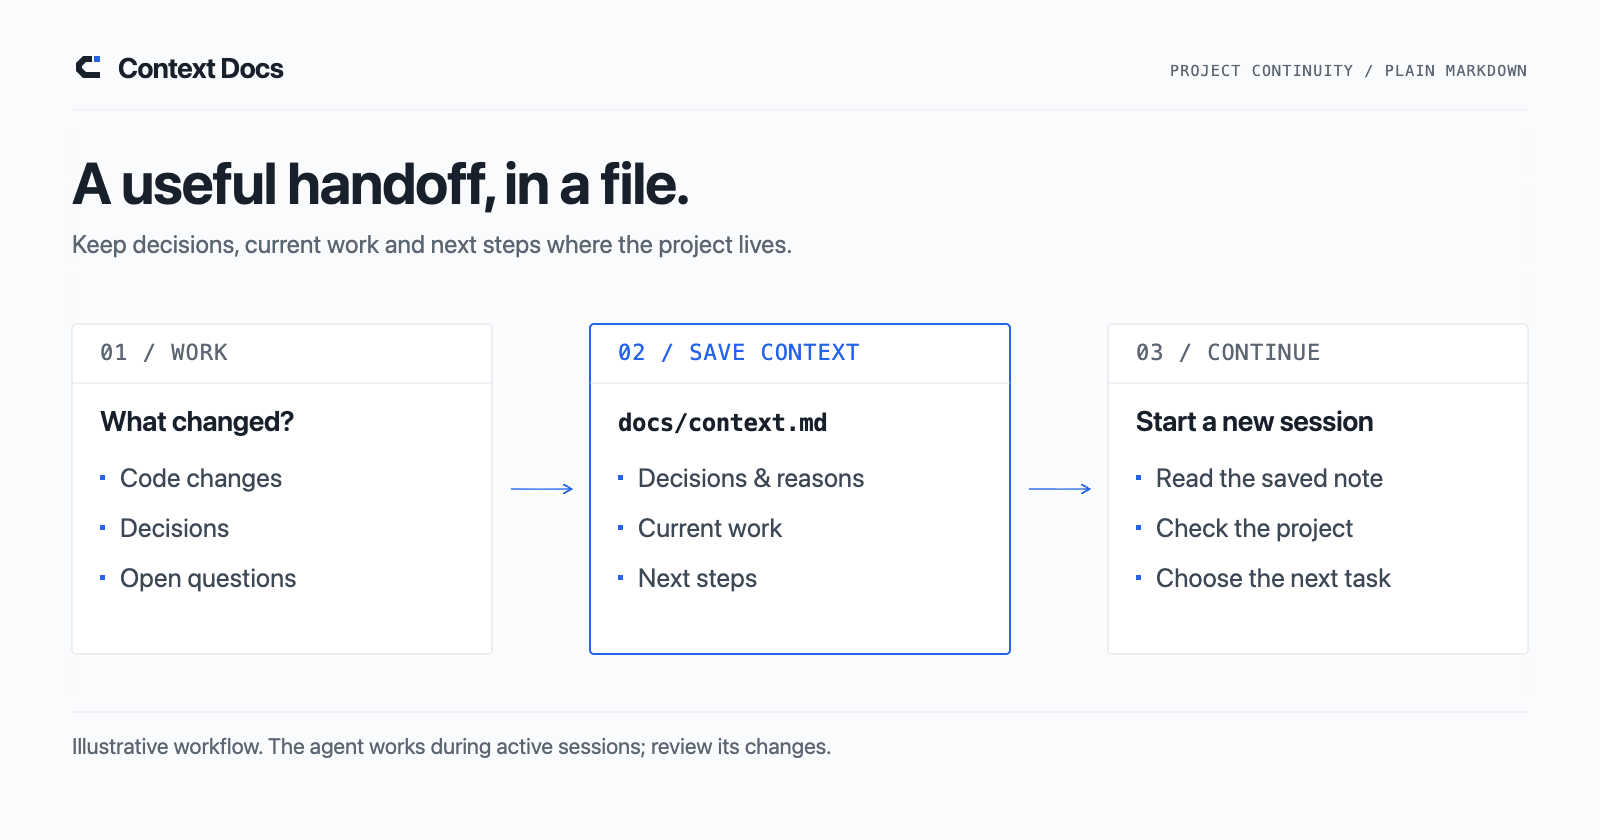
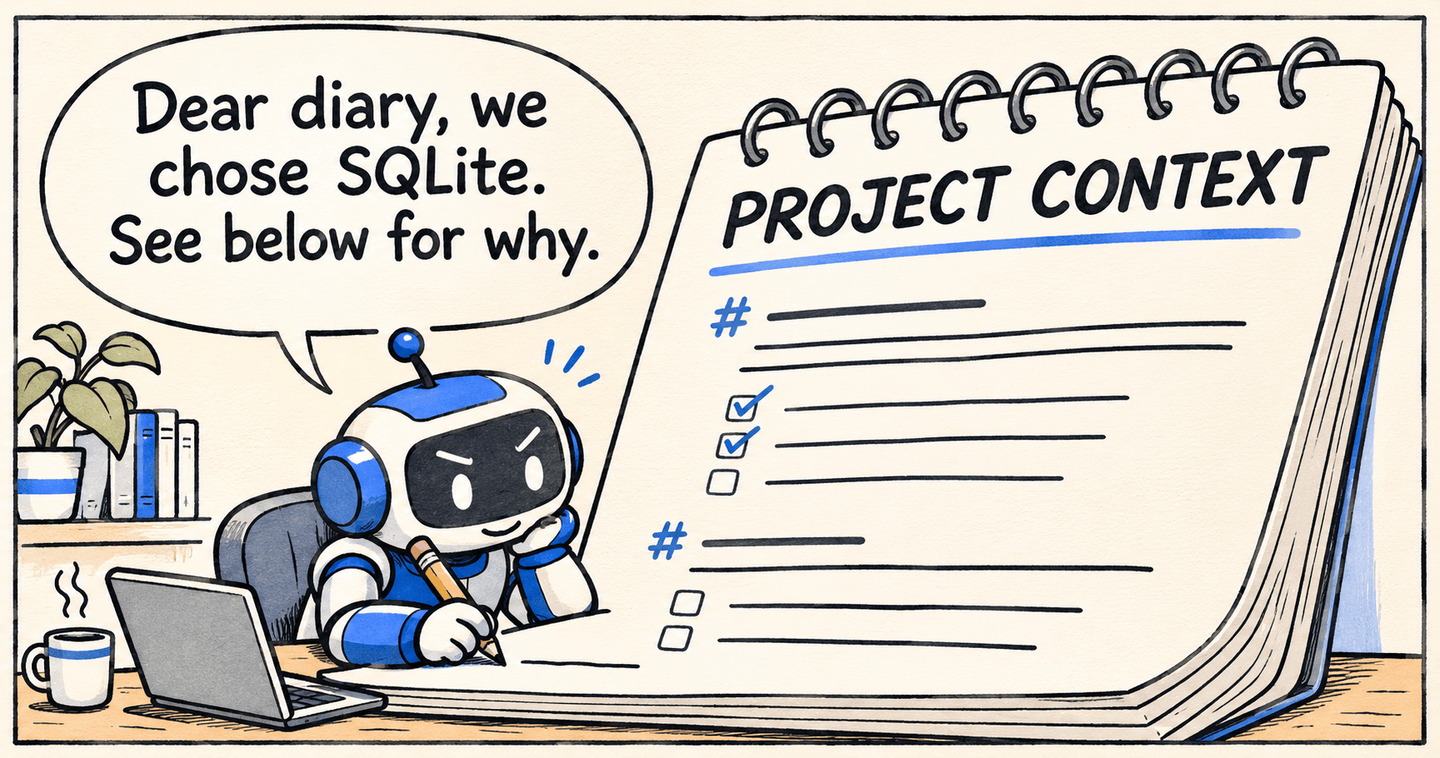
Put project context front and center with a notebook comic

diff --git a/site/index.html b/site/index.html
@@ -4,15 +4,15 @@
 <!-- UI icons: Tabler Icons 3.50.0 (MIT). License: ./tabler-icons-LICENSE.txt -->
   <meta charset="utf-8">
   <meta name="viewport" content="width=device-width, initial-scale=1">
-  <meta name="description" content="Keep project decisions, current work and next steps across AI sessions. Visualize progress in readable Markdown with source links. For Codex and Claude Code.">
+  <meta name="description" content="Keep decisions, current work and next steps in your project's Markdown. Visualize progress with source links. For Codex and Claude Code.">
   <meta name="theme-color" content="#fafbfc">
-  <meta property="og:title" content="Context Docs: pick up where you left off">
+  <meta property="og:title" content="Keep project context in Markdown | Context Docs">
   <meta property="og:description" content="Save useful context and see progress toward your goal in Markdown. A simple workflow for Codex and Claude Code.">
   <meta property="og:type" content="website">
   <meta property="og:url" content="{{SITE_URL}}">
   <meta property="og:image" content="{{SITE_URL}}context-docs-overview.png">
-  <meta property="og:image:alt" content="Save useful project context in Markdown and read it to resume your next AI coding session.">
-  <title>Context Docs: pick up where you left off</title>
+  <meta property="og:image:alt" content="A robot agent writes in a giant notebook labeled Project Context and says, “Dear diary, we chose SQLite. See below for why.”">
+  <title>Keep project context in Markdown | Context Docs</title>
   <link rel="canonical" href="{{SITE_URL}}">
   <link rel="icon" href="./favicon.svg" type="image/svg+xml">
   <link rel="stylesheet" href="./styles.css">
@@ -36,9 +36,9 @@
   <section class="hero wrap" aria-labelledby="hero-title">
     <div class="hero-copy">
       <p class="eyebrow">Open source · For Codex &amp; Claude Code · Cursor (experimental) · Antigravity (experimental)</p>
-      <h1 id="hero-title">Your next session.<br><span>Less starting over.</span></h1>
-      <p class="hero-description">Context Docs helps your AI coding agent keep a short Markdown note in your project: what changed, why it was decided and what to do next. Start your next session by asking it to read that note.</p>
-      <p class="hero-audience"><strong>Vibe coding with AI prompts?</strong> Start with one useful note or keep your existing PRD, design and task files. Review the context updates as you build, then ask your next session to read them.</p>
+      <h1 id="hero-title">Keep context<br><span>in your project.</span></h1>
+      <p class="hero-description">Context Docs helps your AI coding agent keep decisions and their reasons, current work, and next steps in your project’s Markdown. Review the updates as the work changes.</p>
+      <p class="hero-audience"><strong>Vibe coding with AI prompts?</strong> Start with one useful note or keep your existing PRD, design and task files. Ask your next session to read those files.</p>
       <div class="hero-actions"><a class="button primary" href="./getting-started/#install">Get started <span aria-hidden="true">[[icon:arrow-right]]</span></a><a class="text-link" href="#get-started">Setup commands <span aria-hidden="true">[[icon:arrow-down]]</span></a><a class="text-link" href="#story">See an example <span aria-hidden="true">[[icon:arrow-down]]</span></a></div>
       <ul class="hero-facts" aria-label="At a glance"><li>Your files, your repository</li><li>Changes you can review</li><li class="fact-status">Experimental · Core {{CORE_VERSION}}</li></ul>
     </div>
@@ -87,8 +87,8 @@
       <li><span class="step-number" aria-hidden="true">03</span><div><h3>Read the notes next time</h3><p>Start a new session by asking the agent to read the saved file. A saved file alone does not make a new session read it.</p></div></li>
     </ol>
     <figure class="overview">
-      <img src="./context-docs-overview.png" width="1600" height="840" loading="lazy" alt="Illustrative workflow in three panels. 01 Work: code changes, decisions and open questions. 02 Save context: decisions and reasons, current work and next steps in a project Markdown file. 03 Continue: start a new session, read the saved note, check the project and choose the next task. The agent works during active sessions; review its changes.">
-      <figcaption>Work, save what matters in project Markdown, then read it in the next session.</figcaption>
+      <img src="./context-docs-overview.png" width="1440" height="758" loading="lazy" alt="A robot agent writes in a giant notebook labeled Project Context and says, “Dear diary, we chose SQLite. See below for why.”">
+      <figcaption>Keep the reason for a decision alongside the decision itself in project Markdown.</figcaption>
     </figure>
     <p class="workflow-note">No background service, automatic memory or sync: the agent works only during your sessions, and you review what it writes. <a href="#limits">See the limits</a>.</p>
   </section>

diff --git a/site/test_build.py b/site/test_build.py
@@ -1271,7 +1271,7 @@ class LandingBuildTests(unittest.TestCase):
         home = landing.render(landing.ROOT)
         resume = home[home.index('id="resume-prompt"'):home.index('id="release-details"')]
         self.assertIn('href="./examples/#switching"', resume)
-        self.assertIn('Your next session.<br><span>Less starting over.</span>', home)
+        self.assertIn('Keep context<br><span>in your project.</span>', home)
 
     def test_experiments_index_lists_both_reports_newest_first_with_qualified_summaries(self):
         repo = 'https://github.com/jaredchu/context-docs/blob/main/'

diff --git a/assets/README.md b/assets/README.md
@@ -1,6 +1,19 @@
 # Brand and README artwork
 
-The November 7, 2026 UI reboot uses original, code-authored SVG artwork:
+The [notebook comic](context-docs-overview.png) appears in the README, on the
+homepage and in social previews. A coding agent writes down why it chose SQLite
+in a notebook labeled Project Context. The illustration was generated with the
+built-in ImageGen tool on November 28, 2026 and exported as a 1440×758 PNG.
+
+### Notebook comic prompt
+
+```text
+Use case: illustration-story. A funny, single-panel wide editorial cartoon to replace the main README and website illustration for Context Docs, an open-source skill that keeps decisions, current work and next steps in the project’s Markdown. One endearing cobalt-blue and graphite robot coding agent is carefully writing in a comically oversized open spiral notebook on its workbench, large enough to dwarf the robot and its nearby laptop. On the notebook, a big clear heading reads exactly “PROJECT CONTEXT”. The agent holds a pencil and looks comically earnest, as if writing the world’s driest diary. One large, highly readable speech bubble from the robot carries the exact joke “Dear diary, we chose SQLite. See below for why.” Under the notebook heading hint at tidy Markdown notes with simple ink lines and checkboxes, no extra legible text. Make the notebook and robot the distinct focus and leave open breathing space around the speech balloon. Hand-inked newspaper comic, bold rounded lines, very light paper grain, warm ivory base with cobalt and graphite, restrained soft blue accents, clean thin frame with at least 5% safe margins for a 1.9:1 crop. Keep lettering legible at README and mobile widths. One agent, one scene, no handoff imagery, no logos, no extra balloons, no typography besides the heading and dialogue.
+```
+
+## November 7, 2026 artwork
+
+The UI reboot introduced original, code-authored SVG artwork.
 
 - [Abstract C mark](context-docs-mark.svg): a solid angular graphite C with a
   detached cobalt terminal, suggesting context carried forward. Filled geometry
@@ -11,19 +24,19 @@ The November 7, 2026 UI reboot uses original, code-authored SVG artwork:
   uses system fonts and is intended for light surfaces.
 - [Workflow illustration source](context-docs-overview.svg): a technical minimalist
   light diagram showing work, saved project context and a new session reading it.
-- [PNG export](context-docs-overview.png): the 1600×840 browser-rendered SVG export
-  used by the README and social preview. It is not edited from the prior raster.
+- The 1600×840 browser-rendered SVG export appeared in the README and social
+  previews. [November 7 PNG export](https://github.com/jaredchu/context-docs/blob/92042e970957b8d9ec44990583efef395e8137d7/assets/context-docs-overview.png)
 
 The build exposes the canonical mark as `logo.svg`. The tracked site favicon
 uses the same exact SVG bytes. No third-party logo, remote font or stock asset
-is used. SVG sources remain editable; the PNG preserves compatibility with
+is used. SVG sources remain editable. The PNG format preserves compatibility with
 GitHub Markdown and social preview consumers.
 
 The workflow is illustrative, not a screenshot or an observed agent recording.
 It adds no claim of automatic synchronization, unlimited memory or guaranteed
 updates. The agent acts during active sessions and changes need review.
 
-The previous illustration remains available in the
+The October illustration remains available in the
 [v0.2.7 release snapshot](https://github.com/jaredchu/context-docs/blob/v0.2.7/assets/context-docs-overview.png).
 Its original generation provenance is retained below; it does not describe the
 current artwork.

diff --git a/README.md b/README.md
@@ -1,13 +1,13 @@
 # Context Docs
 
-**Keep decisions, current work and next steps across AI sessions.**
+**Keep decisions, current work and next steps in your project.**
 
 Context Docs provides reusable agent skills for context management in Codex and
 Claude Code, with **experimental Cursor and Antigravity support**, validated
 through their CLIs. The Cursor editor and Antigravity App and IDE were not
-separately tested. Preserve project knowledge in readable Markdown so a new AI
-session can pick up where you left off: what was decided and why, what is done
-or blocked, and what to do next.
+separately tested. Your agent helps maintain readable project Markdown that
+records what was decided and why, what is done or blocked, and what to do next.
+Later sessions can use those same files to continue the work.
 
 Designed for people without an established context-management workflow, it uses
 your project's existing documents with as little setup and manual organization
@@ -17,7 +17,7 @@ as possible.
 PRD, design and task files. Review the context updates as you build, then ask your
 next session to read them.
 
-![Illustrative workflow: do the work, save decisions and reasons, current work and next steps in project Markdown, then ask a new session to read the saved note and check the project. The agent works during active sessions; review its changes.](assets/context-docs-overview.png)
+![A robot agent writes in a giant notebook labeled Project Context and says, “Dear diary, we chose SQLite. See below for why.”](assets/context-docs-overview.png)
 
 [Website](https://context-docs.com/) · [Get started](#get-started) · [See an example](#what-you-get) · [User guide](docs/getting-started.md) · [Evidence](docs/evaluation-results.md) · [Contribute](CONTRIBUTING.md)
 
